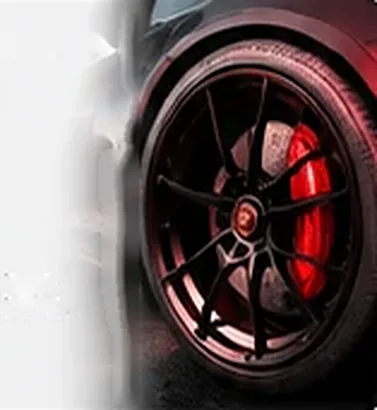
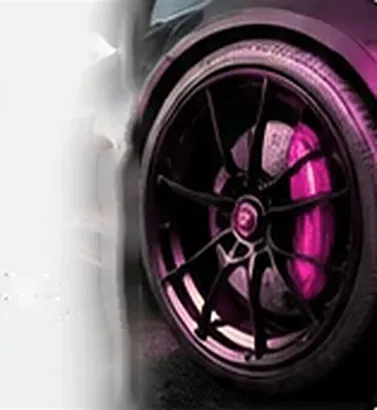
Use Sprint Racing pink instead of the mockup red
Claude-Session: https://claude.ai/code/session_01KdWeuvmxXvG5K173PMquv6

diff --git a/src/styles/global.css b/src/styles/global.css
@@ -5,13 +5,13 @@
    ========================================================================== */
 
 :root {
-  /* Rouge de la maquette : boutons, icônes, pastilles. Pour revenir au rose de la marque,
-     remplacer ces trois valeurs par #cd398a / #b52c77 / #e0479b. */
-  --accent: #800d0a;
-  --accent-600: #5f0806;
-  --accent-bright: #c8231e;
-  --accent-50: #f6e9e9;
-  --accent-soft: #e9d3d3;
+  /* Rose de Sprint Racing : boutons, icônes, pastilles. Pour passer au rouge de la maquette,
+     remplacer par #800d0a / #5f0806 / #c8231e / #f6e9e9 / #e9d3d3. */
+  --accent: #b52c77;
+  --accent-600: #96215f;
+  --accent-bright: #cd398a;
+  --accent-50: #fbeef5;
+  --accent-soft: #f4d6e6;
 
   /* Anciens noms, conservés pour les pages qui les utilisent encore. */
   --magenta: var(--accent);
@@ -405,9 +405,9 @@ p {
   padding-block: calc(var(--header-h) + var(--header-gap) + clamp(36px, 5vw, 64px)) clamp(40px, 5vw, 72px);
   border-radius: 0 0 clamp(16px, 2vw, 26px) clamp(16px, 2vw, 26px);
   background:
-    radial-gradient(ellipse 55% 70% at 78% 62%, rgba(190, 26, 24, 0.42), transparent 70%),
-    radial-gradient(ellipse 40% 60% at 8% 20%, rgba(130, 14, 14, 0.35), transparent 70%),
-    linear-gradient(180deg, #1a0809 0%, #0f0606 100%);
+    radial-gradient(ellipse 55% 70% at 78% 62%, rgba(205, 57, 138, 0.4), transparent 70%),
+    radial-gradient(ellipse 40% 60% at 8% 20%, rgba(140, 30, 90, 0.35), transparent 70%),
+    linear-gradient(180deg, #1a0812 0%, #0f060b 100%);
   color: rgba(255, 255, 255, 0.78);
 }
 .page-hero::before {
@@ -481,7 +481,7 @@ p {
   z-index: -1;
   height: 18%;
   border-radius: 50%;
-  background: radial-gradient(closest-side, rgba(220, 40, 34, 0.55), transparent);
+  background: radial-gradient(closest-side, rgba(225, 70, 155, 0.55), transparent);
   filter: blur(10px);
 }
 .page-hero__media.is-cutout .page-hero__img {

diff --git a/README.md b/README.md
@@ -67,12 +67,12 @@ Les formulaires comprennent une validation des champs, un champ anti-spam invisi
 
 ## Style
 
-Le site reproduit la maquette fournie : fond blanc, grandes photos sombres, cartes gris très clair aux coins arrondis, pastilles, rouge profond pour les boutons et les icônes, typographie Inter fine, grands mots décoratifs (« sprint racing », « pilotage »). L’en-tête est une « pilule » blanche qui flotte au-dessus des grands visuels.
+Le site reproduit la maquette fournie : fond blanc, grandes photos sombres, cartes gris très clair aux coins arrondis, pastilles, rose de Sprint Racing pour les boutons et les icônes (à la place du rouge de la maquette), typographie Inter fine, grands mots décoratifs (« sprint racing », « pilotage »). L’en-tête est une « pilule » blanche qui flotte au-dessus des grands visuels.
 
-- Les couleurs se règlent en haut de `src/styles/global.css` (`--accent`, `--accent-bright`…). Pour revenir au rose de la marque, il suffit de remplacer les valeurs de `--accent`.
+- Les couleurs se règlent en haut de `src/styles/global.css` (`--accent`, `--accent-bright`…). Pour passer au rouge de la maquette, les valeurs à mettre sont indiquées en commentaire.
 - Les sections de l’accueil sont des composants indépendants dans `src/components/home/` (`HomeHero`, `Prestations`, `ServicesList`, `FeatureCards`, `TeamSection`, `Testimonials`).
 - Les icônes viennent de [Lucide](https://lucide.dev) (`src/components/Lucide.astro`), insérées en SVG à la génération : aucun script envoyé au navigateur.
-- Les pages intérieures reprennent l’ambiance de l’accueil : en-tête sombre avec halo rouge (`.page-hero`).
+- Les pages intérieures reprennent l’ambiance de l’accueil : en-tête sombre avec halo rose (`.page-hero`).
 
 ## Réservation en ligne (démonstration)
 
